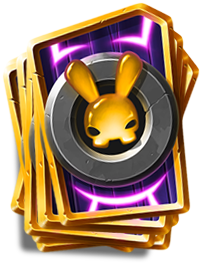
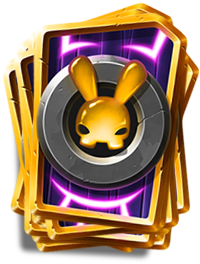
Changing deck image

diff --git a/test.py b/test.py
@@ -16,11 +16,13 @@ w, h = pygame.display.get_surface().get_size()
 
 SURF_BACKGROUND = image.convert()
 
+deckImage1 = pygame.image.load("Deck_1.png").convert_alpha()
+deckImage2 = pygame.image.load("Deck_2.png").convert_alpha()
+deckImage3 = pygame.image.load("Deck_3.png").convert_alpha()
+deckImage4 = pygame.image.load("Deck_4.png").convert_alpha()
 
 overlay = pygame.image.load("BorderOverlay.png").convert_alpha()
 
-
-image = pygame.image.load("Deck_1.png").convert_alpha()
 
 def MAX(left=0,right=0):
 	return left if (left>right) else right
@@ -162,7 +164,16 @@ print (whose_turn.get_hand())
 while (True):
 	screen.blit(SURF_BACKGROUND ,(0,0))
 	screen.blit(overlay ,(0,0))
-	screen.blit(image ,(w * .05,h * .3))
+
+	if len(deck) > 60:
+		screen.blit(deckImage1 ,(w * .05,h * .3))
+	elif len(deck) > 50:
+		screen.blit(deckImage2 ,(w * .05,h * .3))
+	elif len(deck) > 40:
+		screen.blit(deckImage3 ,(w * .05,h * .3))
+	elif len(deck) > 0:
+		screen.blit(deckImage4 ,(w * .05,h * .3))
+
 
 	for event in pygame.event.get():
 		if (event.type == QUIT): #pressing 'x' on the window
@@ -210,7 +221,6 @@ while (True):
 	for i in range(len(pile)):
 		rotated = pygame.transform.rotate(pile[i].image,pile[i].rotation)
 		screen.blit(rotated, (w * .4,h * .3))
-		print ("CurrentCard: " + currentCard.name);
 	player1.redraw_hand()
 	pygame.display.update()
 
